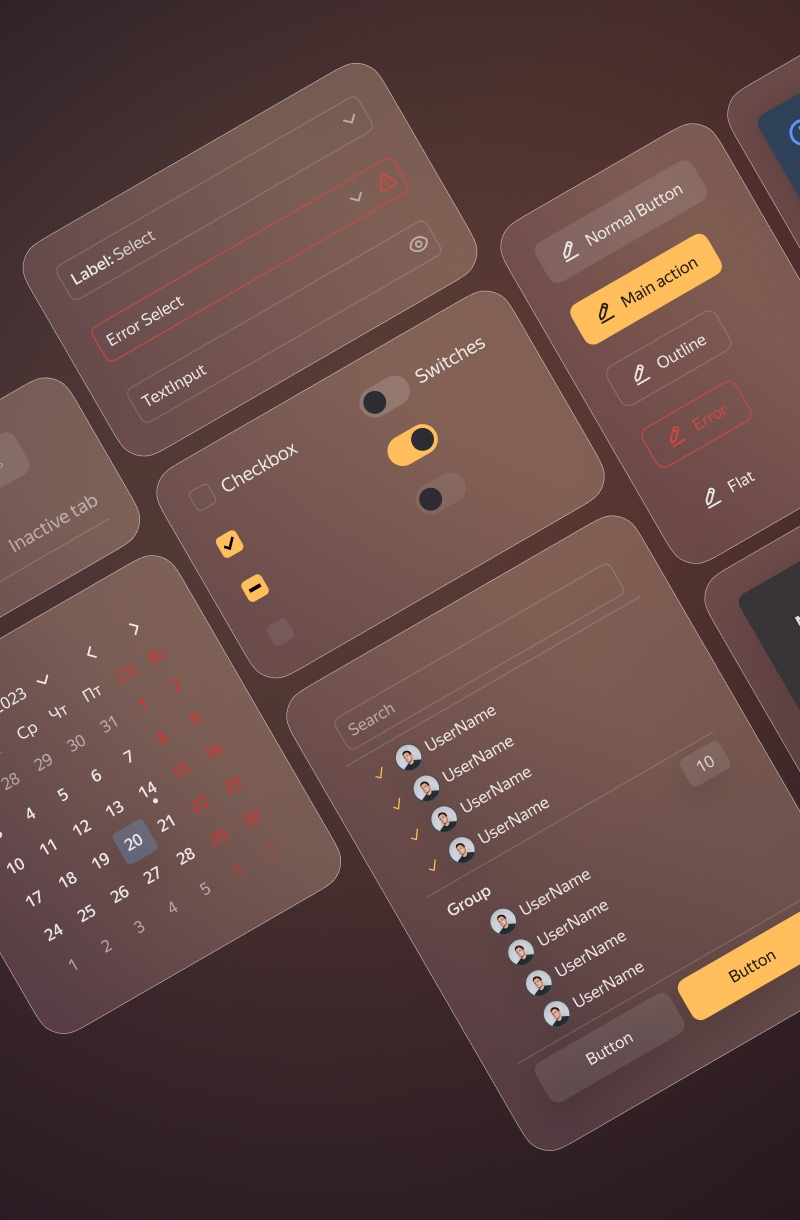
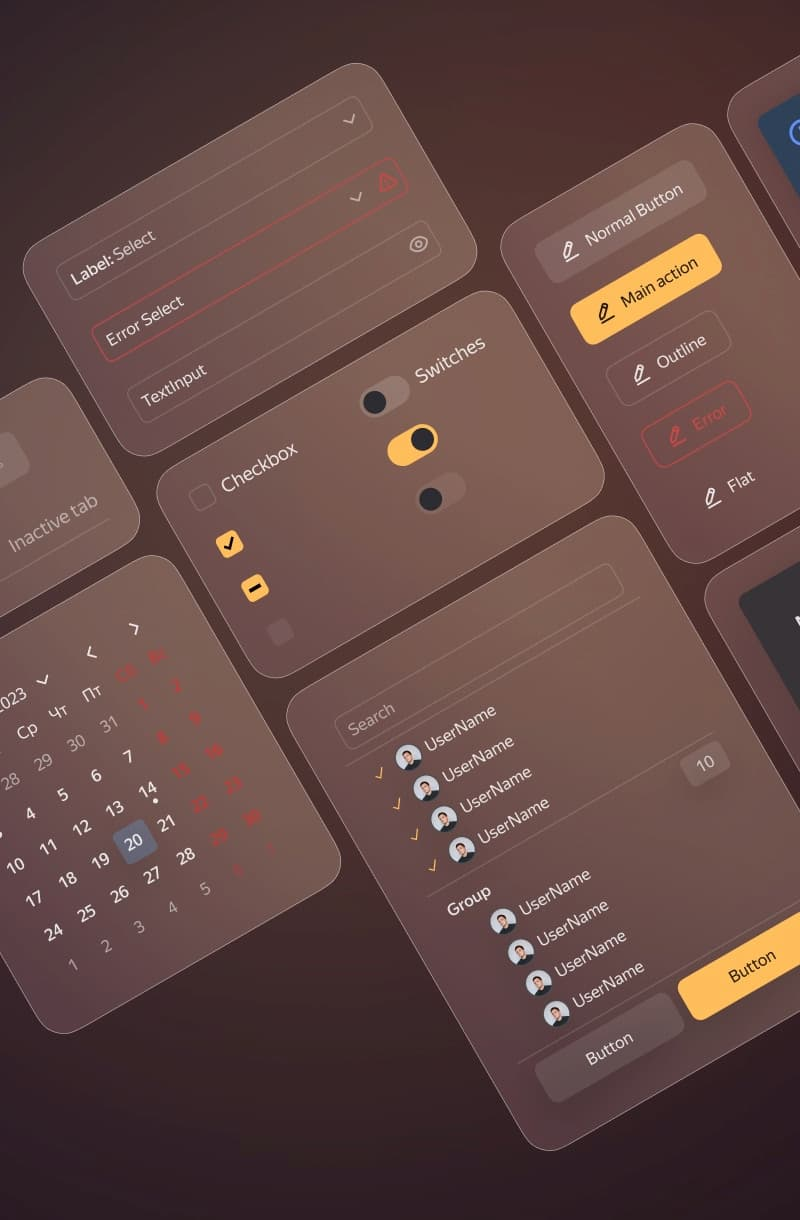
feat: optimize images size and enable lazy loading

Changed region(s): [[0.9062, 0.7787, 0.9688, 0.8098], [0.7812, 0.218, 0.8125, 0.2492]]

diff --git a/src/blocks/Libraries/components/LibraryPreview/LibraryPreview.tsx b/src/blocks/Libraries/components/LibraryPreview/LibraryPreview.tsx
@@ -1,5 +1,6 @@
 import {HTML} from '@gravity-ui/page-constructor';
 import {Icon} from '@gravity-ui/uikit';
+import Image from 'next/image';
 import Link from 'next/link';
 import React from 'react';
 import {useTranslation} from 'react-i18next';
@@ -54,11 +55,7 @@ const libIdToAssetMobile: Record<string, {src: string}> = {
 
 function getBackgroundImage(id: string, isMobile?: boolean) {
     const assetsMap = isMobile ? libIdToAssetMobile : libIdToAsset;
-    const asset = assetsMap[id];
-    if (asset) {
-        return `url(${asset.src})`;
-    }
-    return undefined;
+    return assetsMap[id].src;
 }
 
 export const LibraryPreview: React.FC<LibraryPreviewProps> = ({lib, contentStyle}) => {
@@ -74,11 +71,16 @@ export const LibraryPreview: React.FC<LibraryPreviewProps> = ({lib, contentStyle
                 className={b('content', {
                     primary,
                 })}
-                style={{
-                    ...contentStyle,
-                    backgroundImage: getBackgroundImage(id, isMobile),
-                }}
+                style={contentStyle}
             >
+                <Image
+                    src={getBackgroundImage(id, isMobile)}
+                    alt={title}
+                    loading="lazy"
+                    className={b('image')}
+                    quality={100}
+                    fill={true}
+                />
                 <div className={b('description ')}>
                     <div className={b('header')}>
                         {title ? (

diff --git a/src/blocks/Libraries/components/LibraryPreview/LibraryPreview.scss b/src/blocks/Libraries/components/LibraryPreview/LibraryPreview.scss
@@ -11,12 +11,14 @@ $block: '.#{variables.$ns}libraries-library-preview';
         height: 292px;
         width: 100%;
         border-radius: 24px;
+        overflow: hidden;
         color: rgba(255, 255, 255, 0.7);
         background-size: cover;
 
         display: flex;
         flex-direction: column;
         justify-content: flex-end;
+        position: relative;
 
         transition: transform 0.2s ease-in-out;
 
@@ -51,6 +53,16 @@ $block: '.#{variables.$ns}libraries-library-preview';
             overflow: hidden;
             max-height: 100px;
         }
+    }
+
+    &__image {
+        position: absolute;
+        height: 100%;
+        margin: 0 auto;
+        object-fit: cover;
+        object-position: top;
+        width: 100%;
+        border-radius: 0 0 24px 24px;
     }
 
     &__header {
@@ -118,6 +130,7 @@ $block: '.#{variables.$ns}libraries-library-preview';
         background-color: rgba(54, 41, 61);
         border-radius: 0 0 24px 24px;
         gap: 8px;
+        z-index: 1;
 
         @media (max-width: map-get(pcVariables.$gridBreakpoints, 'md') - 1) {
             padding: 18px 24px;
